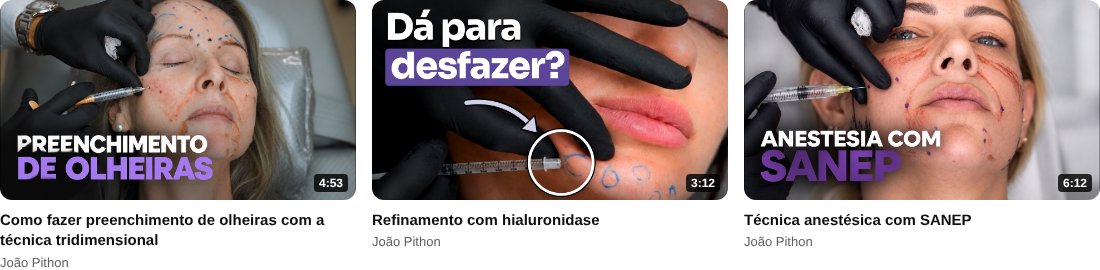
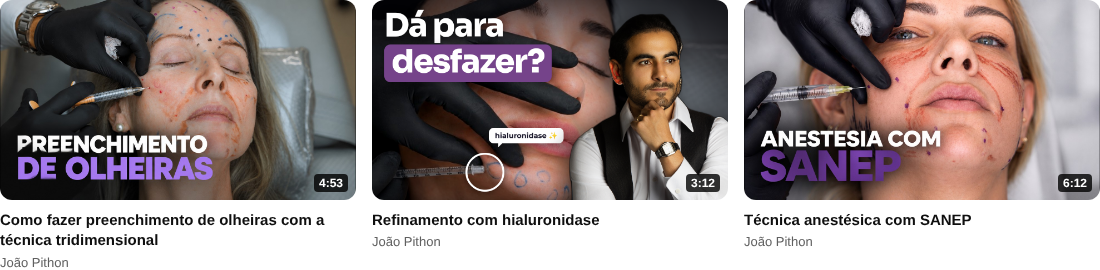
FEA thumbs v5: estilo cinematográfico com palavra em destaque (referência Dra. Bel Guerra)
Claude-Session: https://claude.ai/code/session_011MH3jdyDdLhbFaeptuadsh

Changed region(s): [[0.34, 0.0, 0.68, 0.7407]]

diff --git a/FEA-thumbs-youtube/FEA-thumbs-v5.html b/FEA-thumbs-youtube/FEA-thumbs-v5.html
@@ -1,0 +1,26 @@
+<!doctype html>
+<html lang="pt-BR"><head><meta charset="utf-8"><meta name="viewport" content="width=device-width, initial-scale=1">
+<title>FEA Thumbs v5</title>
+<link href="https://fonts.googleapis.com/css2?family=Sora:wght@700;800&family=Montserrat:wght@600;700&display=swap" rel="stylesheet">
+<style>
+*{margin:0;padding:0;box-sizing:border-box}
+body{background:#F9F9F9;padding:24px 16px}
+.thumb{width:1280px;height:720px;position:relative;overflow:hidden;font-family:Sora,sans-serif;background:#000}
+.bg{position:absolute;inset:0;background-repeat:no-repeat;filter:saturate(1.05) contrast(1.08) brightness(.92)}
+.cine{position:absolute;inset:0;background:linear-gradient(180deg,rgba(5,5,10,.55) 0%,rgba(5,5,10,0) 40%),linear-gradient(90deg,rgba(5,5,10,0) 55%,rgba(5,5,10,.5) 100%),radial-gradient(ellipse at 50% 50%,transparent 55%,rgba(0,0,0,.45) 100%)}
+.joao{position:absolute;filter:drop-shadow(-20px 10px 40px rgba(0,0,0,.6))}
+.txt{position:absolute;left:44px;top:34px;font-weight:800;letter-spacing:-.03em;line-height:1;color:#fff;font-size:116px;text-shadow:0 6px 30px rgba(0,0,0,.55)}
+.box{display:inline-block;margin-top:10px;background:#75438A;color:#fff;padding:4px 26px 16px;border-radius:22px;text-shadow:none;box-shadow:0 10px 30px rgba(0,0,0,.35)}
+.balao{position:absolute;background:#fff;color:#1d1b2e;font:700 26px Montserrat;padding:12px 22px;border-radius:18px;box-shadow:0 10px 30px rgba(0,0,0,.35)}
+.balao:after{content:'';position:absolute;left:34px;bottom:-14px;border-top:16px solid #fff;border-right:16px solid transparent}
+.alvo{position:absolute;border:7px solid #fff;border-radius:50%;box-shadow:0 0 24px rgba(0,0,0,.5)}
+</style></head><body>
+<div class="thumb" id="h5">
+ <div class="bg" style="background-image:url(antes/fV64CStfYYE.jpg);background-size:155%;background-position:70% 0%"></div>
+ <div class="cine"></div>
+ <div class="alvo" style="left:336px;top:550px;width:140px;height:140px"></div>
+ <div class="balao" style="left:420px;top:460px">hialuronidase ✨</div>
+ <img class="joao" src="../FEA-recortes-dr-joao/FEA-joao-recorte-141.png" style="right:-70px;top:40px;height:1060px" alt="">
+ <div class="txt">Dá para<br><span class="box">desfazer?</span></div>
+</div>
+</body></html>

diff --git a/FEA-thumbs-youtube/FEA-mock-feed.html b/FEA-thumbs-youtube/FEA-mock-feed.html
@@ -5,6 +5,6 @@
 .w{position:relative}.d{position:absolute;right:8px;bottom:8px;background:rgba(0,0,0,.8);color:#fff;font-size:12px;font-weight:600;padding:2px 5px;border-radius:4px}</style></head><body>
 <div class="g" id="f">
 <div class="c"><div class="w"><img src="antes/tBuVlo_svHw.jpg"><span class="d">4:53</span></div><div class="t">Como fazer preenchimento de olheiras com a técnica tridimensional</div><div class="m">João Pithon</div></div>
-<div class="c"><div class="w"><img src="FEA-thumb-v3-hialuronidase.png"><span class="d">3:12</span></div><div class="t">Refinamento com hialuronidase</div><div class="m">João Pithon</div></div>
+<div class="c"><div class="w"><img src="FEA-thumb-v5-hialuronidase.png"><span class="d">3:12</span></div><div class="t">Refinamento com hialuronidase</div><div class="m">João Pithon</div></div>
 <div class="c"><div class="w"><img src="antes/u6JOTAF2j7c.jpg"><span class="d">6:12</span></div><div class="t">Técnica anestésica com SANEP</div><div class="m">João Pithon</div></div>
 </div></body></html>
